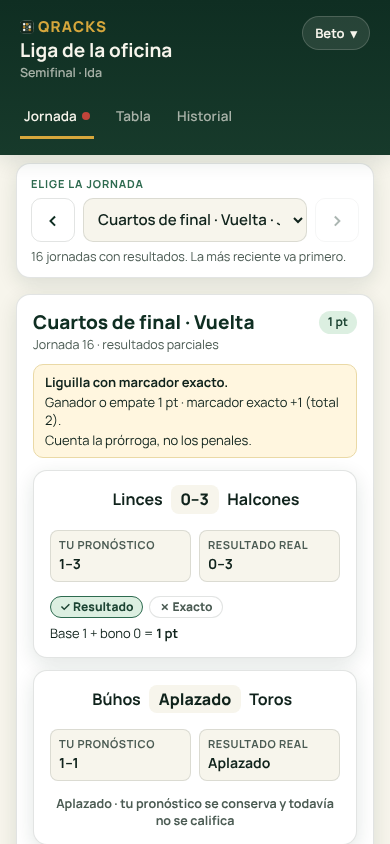
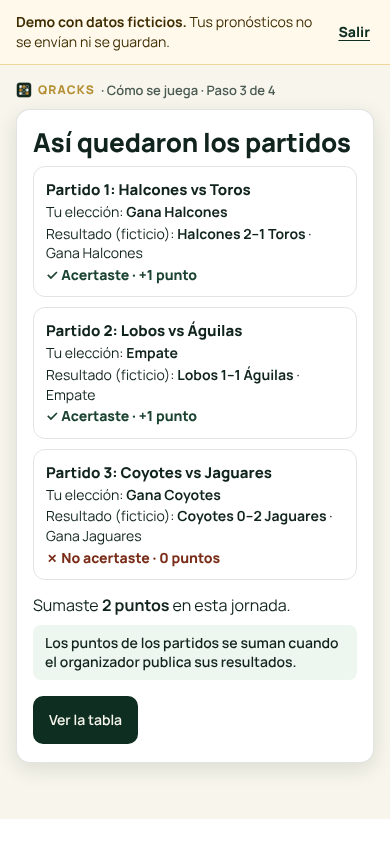
docs: use a simple match-prediction demo screenshot [skip render]
Replace the README mobile illustration with the unchanged synthetic-data screenshot from PR #41. Show three ordinary matches, outcomes and points without liguilla-specific terminology. Update only the mobile heading, alternative text and evidence caption; retain all feature tables.

diff --git a/README.md b/README.md
@@ -41,8 +41,8 @@ Screenshots of the released app, using synthetic test data.
 <table>
 <tr>
 <td width="32%" align="center" valign="top">
-<strong>Mobile · Review your matchday</strong><br><br>
-<img src="./docs/images/readme/mobile-jugados.png" alt="Qracks mobile matchday selector, comparing a prediction with the actual score and a postponed match" width="280">
+<strong>Mobile · From predictions to points</strong><br><br>
+<img src="./docs/images/readme/mobile-jugados.png" alt="Qracks mobile demo showing three match predictions, their results and a two-point total" width="280">
 </td>
 <td width="68%" align="center" valign="top">
 <strong>Desktop · Compare the group</strong><br><br>
@@ -51,7 +51,7 @@ Screenshots of the released app, using synthetic test data.
 </tr>
 </table>
 
-Choose a matchday to review your predictions, then compare the group's results without losing the reference row. [View the delivery and validation](https://github.com/alex-orozco1/Quinielas/pull/43).
+Try predictions, results and points in the interactive demo, then compare the group's results in History. [Mobile demo evidence](https://github.com/alex-orozco1/Quinielas/pull/41#issuecomment-6691348168) · [Desktop history evidence](https://github.com/alex-orozco1/Quinielas/pull/43).
 
 ## 🌍 Supported competitions
 
